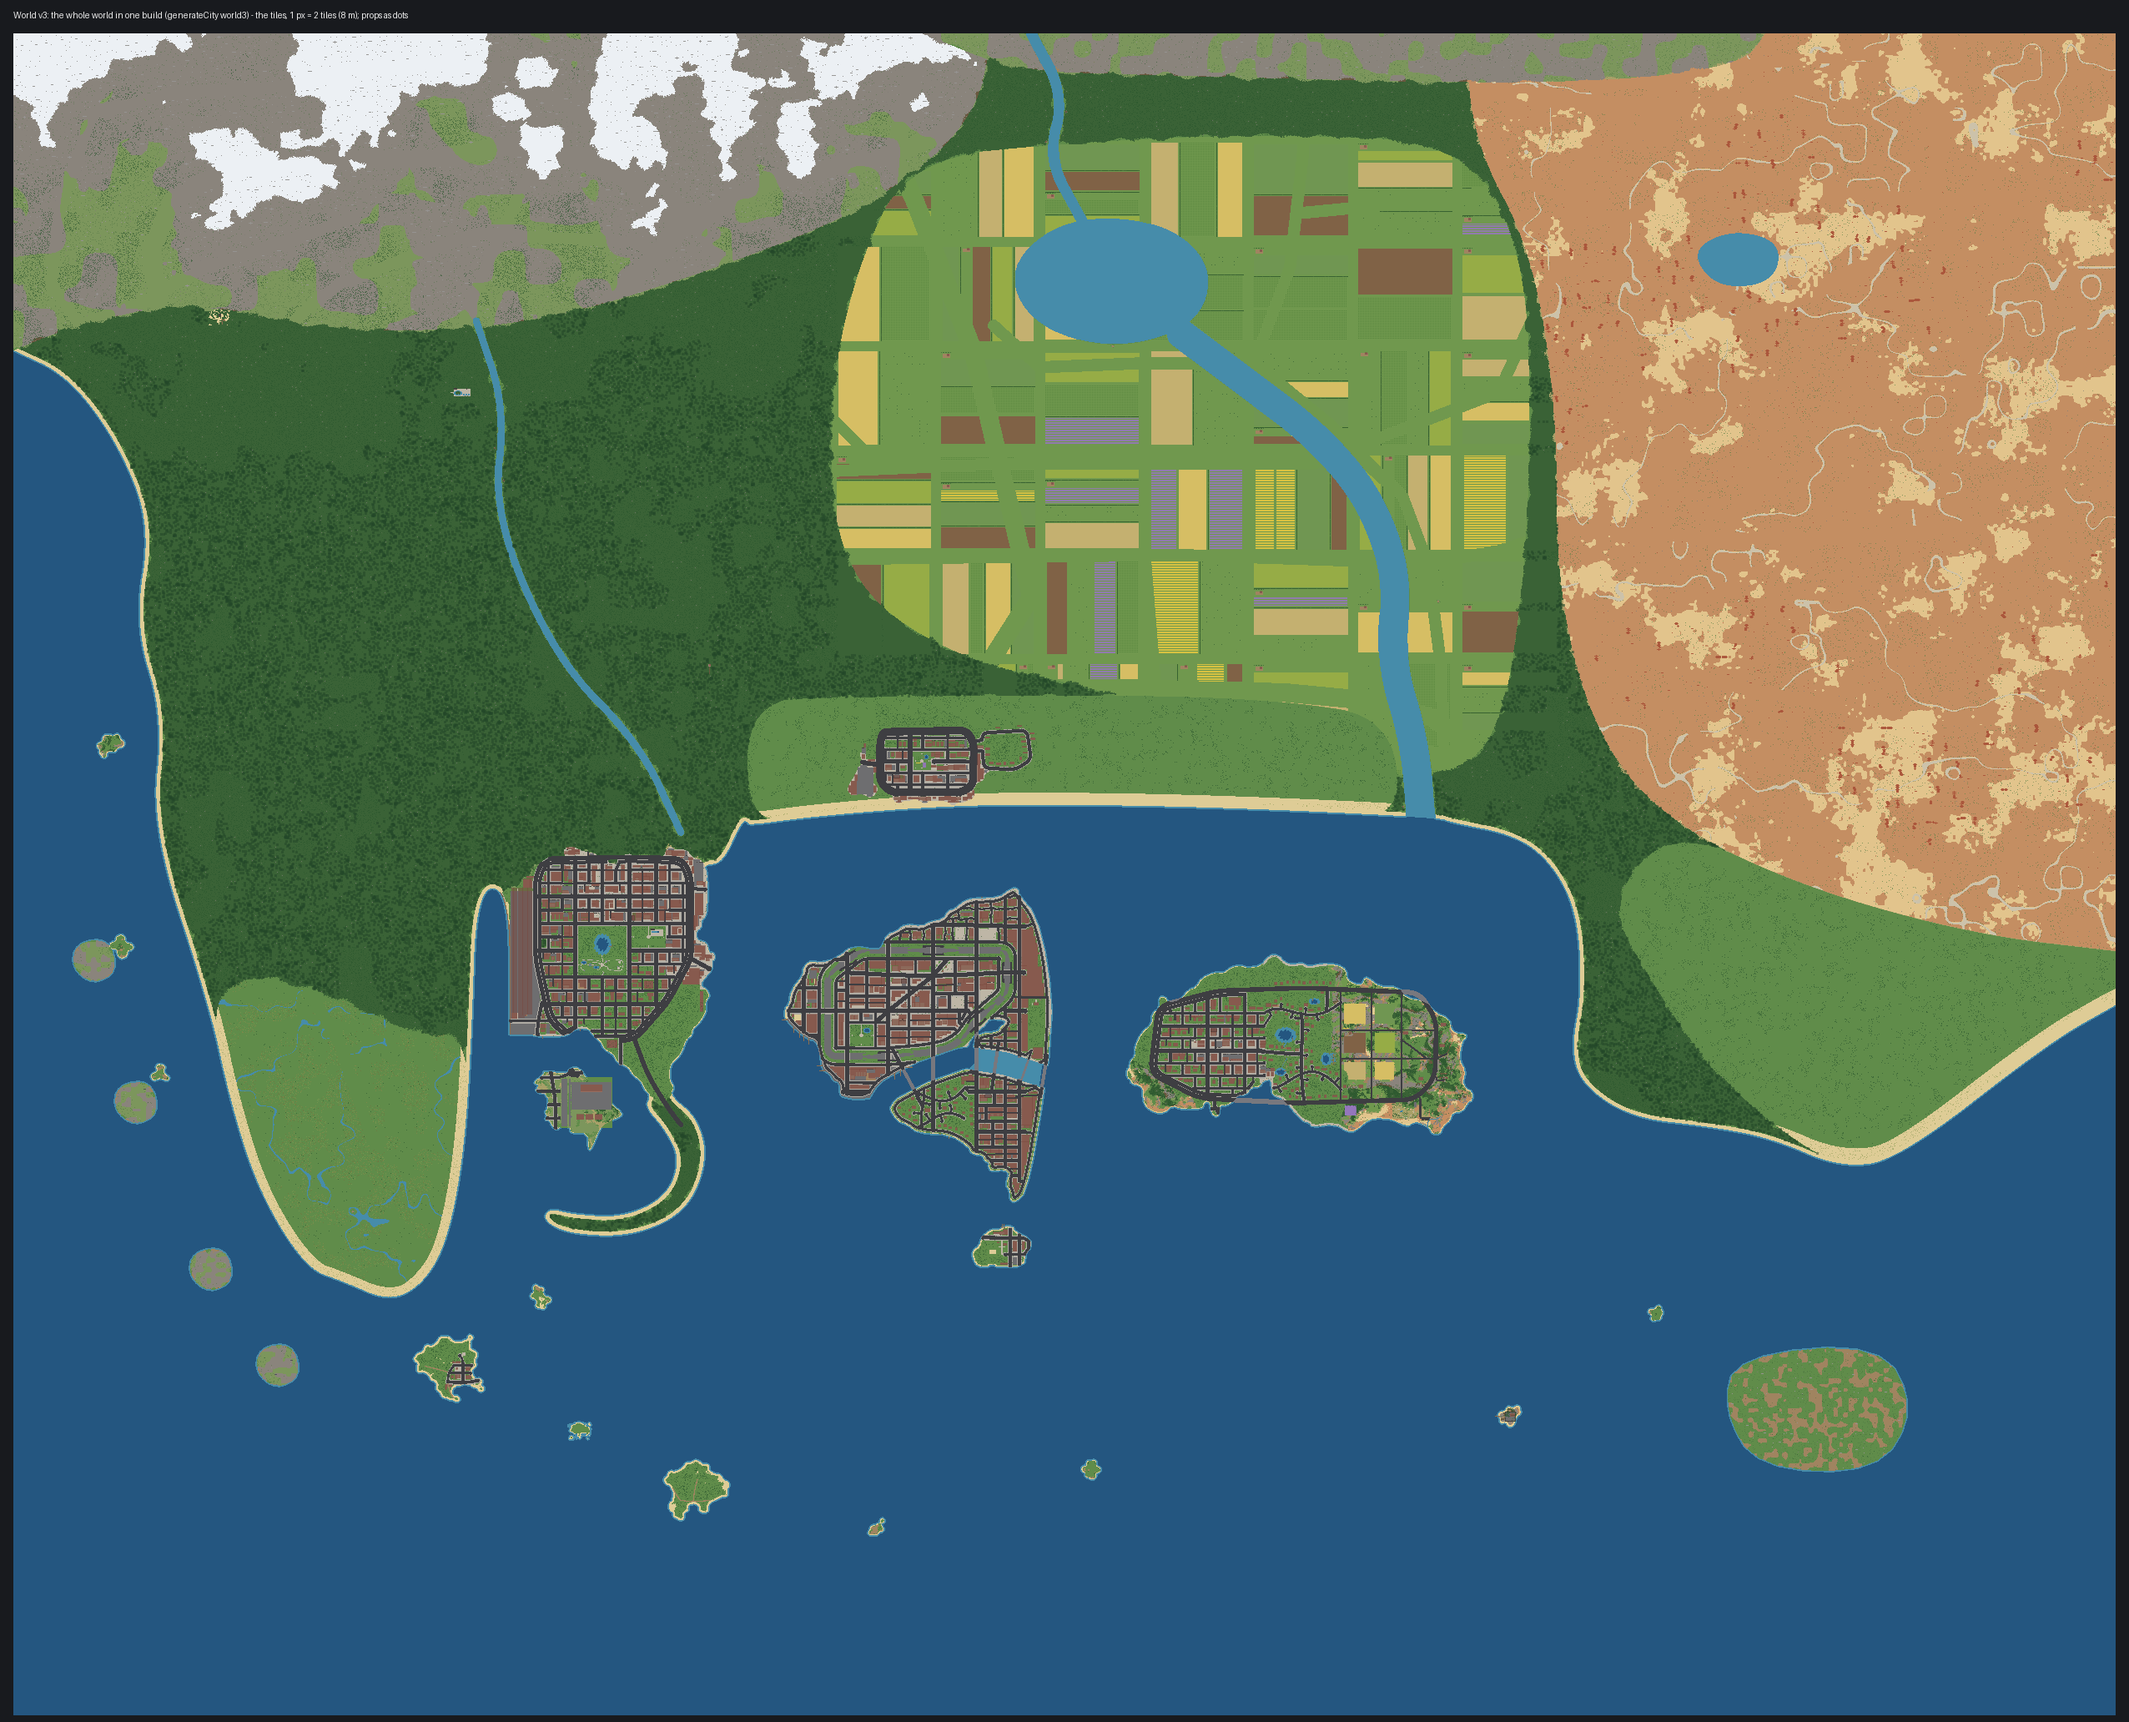
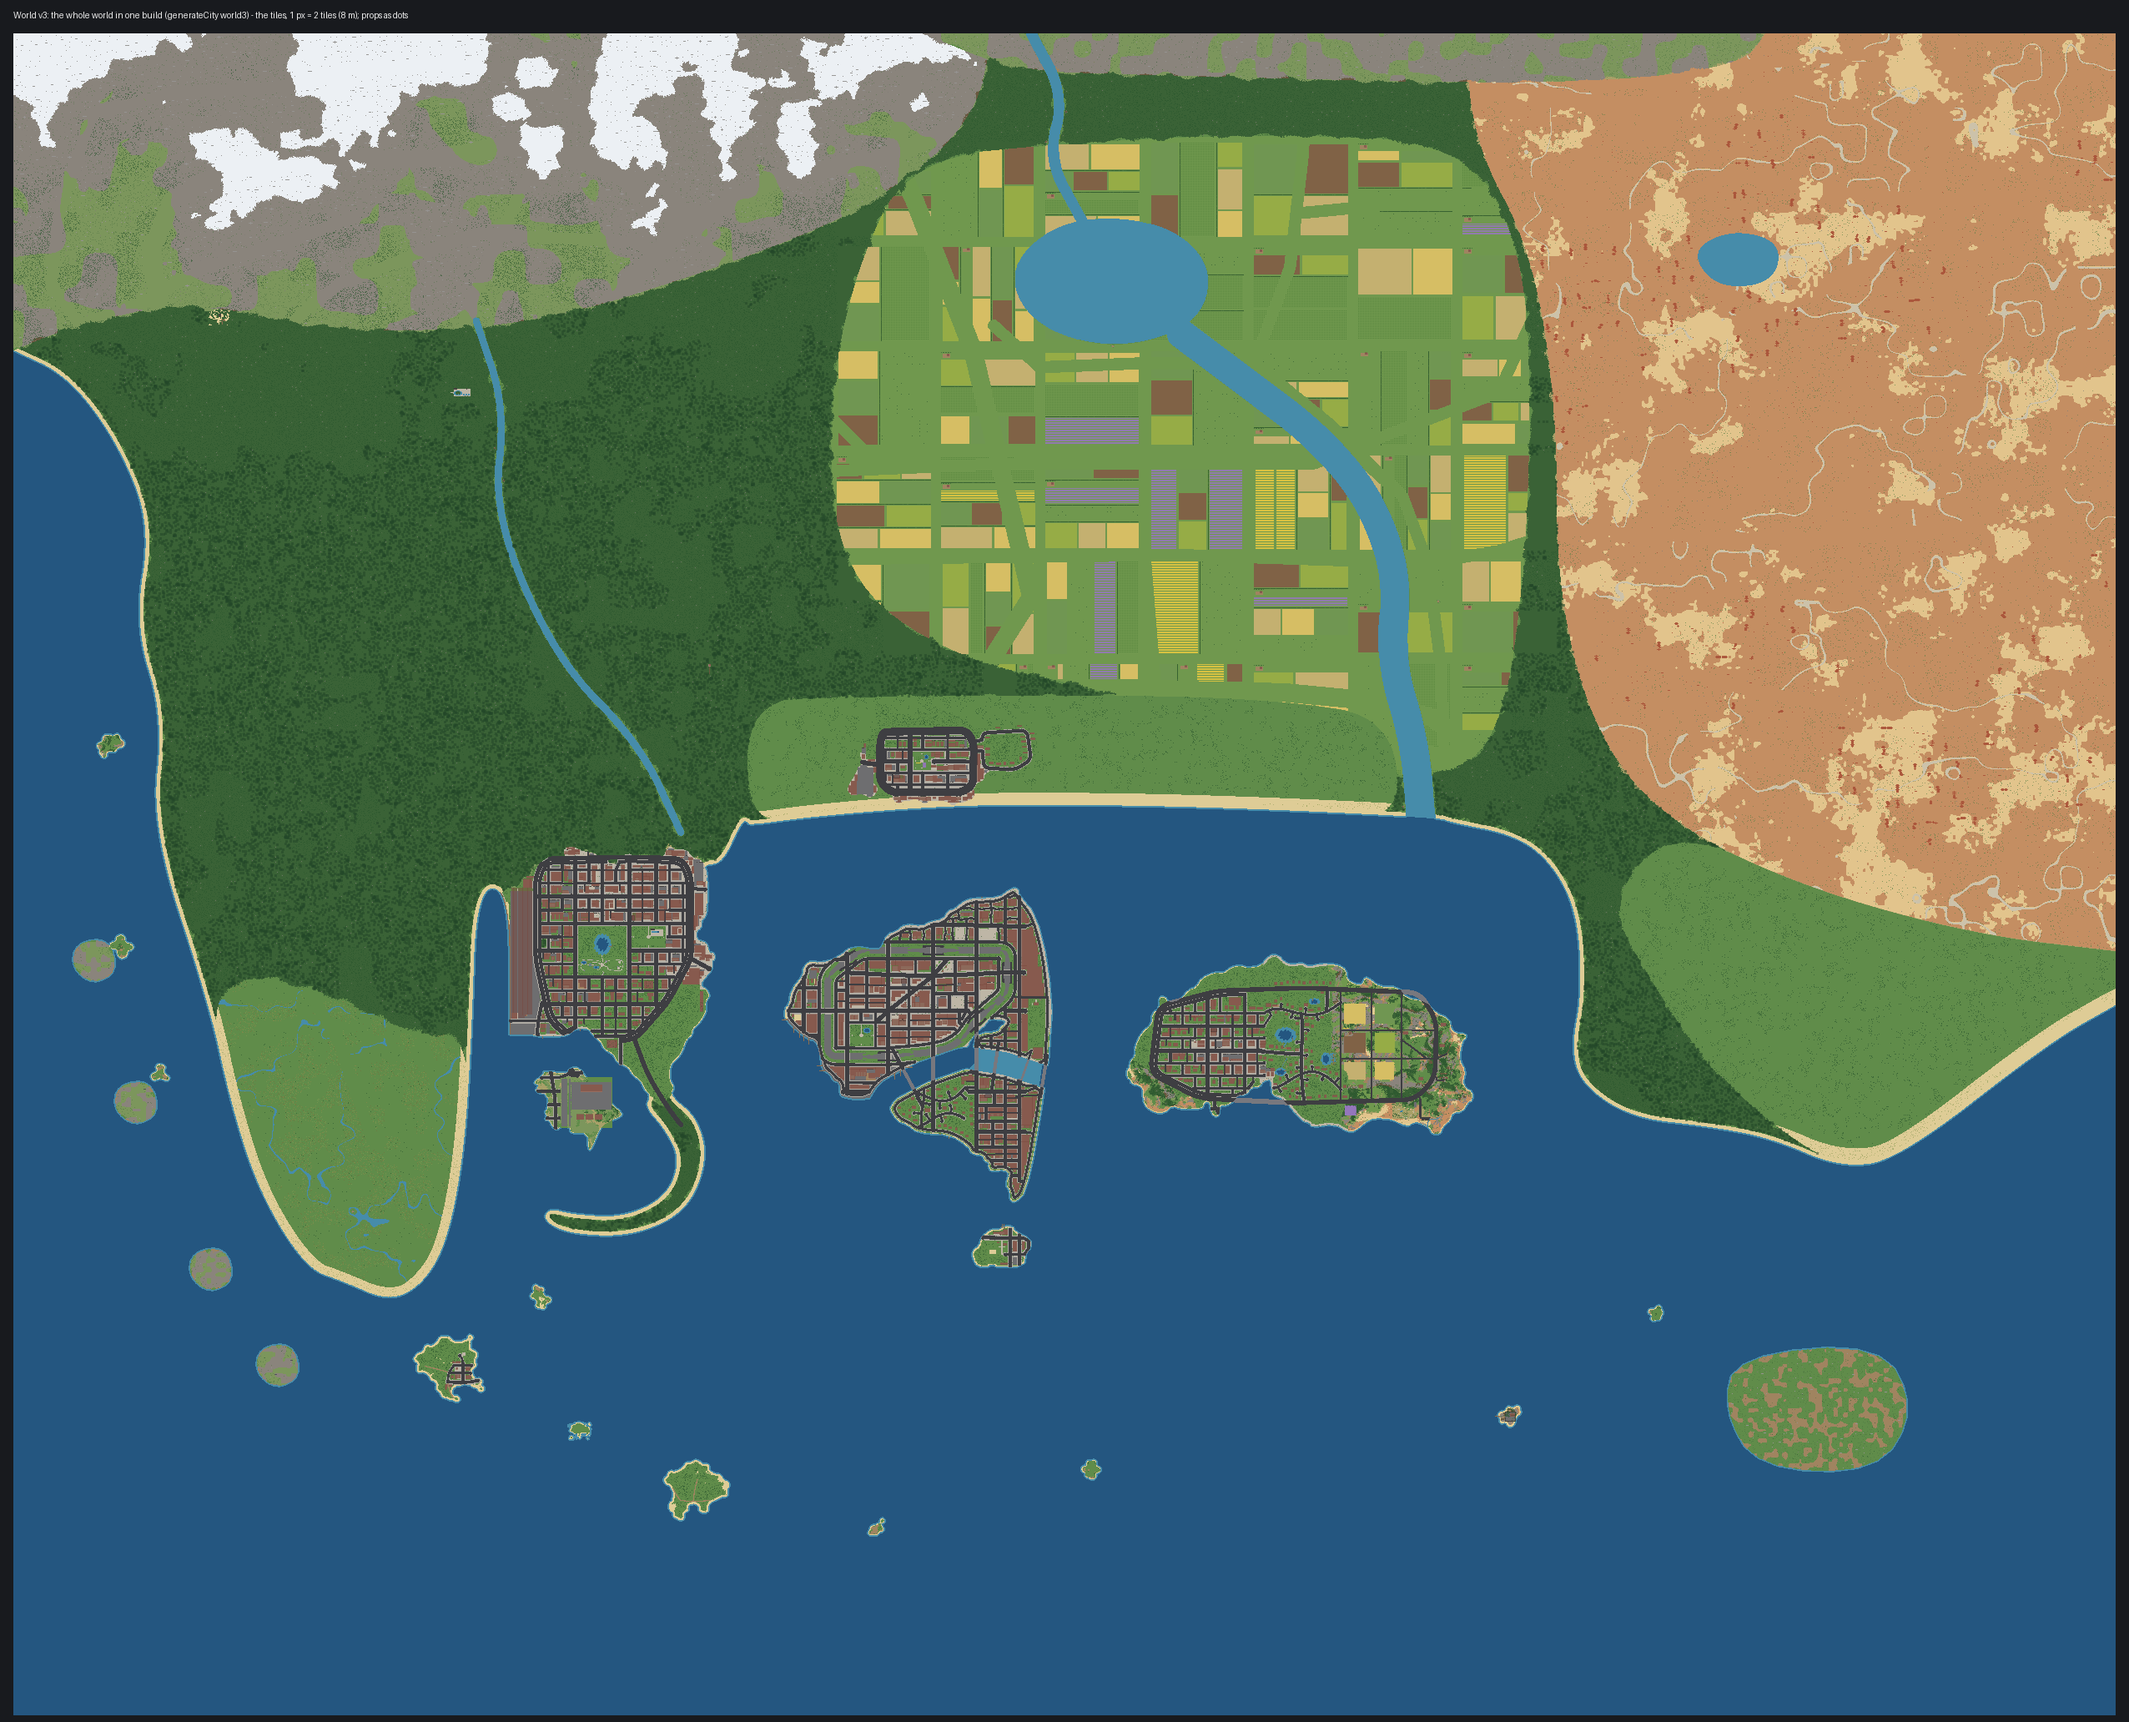
World v3 biomes: Willow Valley's long strips split into fields; nothing grows on the snow (the renderer's cover); the peaks' region baked (docs/world-v3-world-r1-0.png); 8.8 updated
Claude-Session: https://claude.ai/code/session_015TdwbASoLBxZr1VoEZGToX

Changed region(s): [[0.3715, 0.062, 0.7429, 0.4341]]

diff --git a/shared/world3-biomes.js b/shared/world3-biomes.js
@@ -192,9 +192,16 @@ export function dress3(m, L, keep, H) {
       }
       if (r[2] - r[0] < 8 || r[3] - r[1] < 8) continue;
       if (use === 'field') {
-        let cnt = 0;
-        for (let y = r[1]; y < r[3]; y++) for (let x = r[0]; x < r[2]; x++) { const i = y * W + x; if (x >= 0 && y >= 0 && x < W && y < HH && L.dist[i] === D3.VALLEY && okTile(i, T.GRASS, T.DIRT)) { m.tiles[i] = T.FIELD; cnt++; } }
-        if (cnt > 200) { m.fields.push({ x: r[0] * TILE, y: r[1] * TILE, w: (r[2] - r[0]) * TILE, h: (r[3] - r[1]) * TILE }); n.fields++; }
+        // a long strip is two or three fields end to end, a farm track's room between (each its own crop)
+        const long = across ? r[2] - r[0] : r[3] - r[1], parts = long > 140 ? 2 + Math.floor(hash2(sx + j, sy + 5, 5614) * 2) : 1;
+        for (let q = 0; q < parts; q++) {
+          const c0 = Math.round(long * (q / parts + (q ? (hash2(sx + q, sy + j, 5615) - 0.5) * 0.15 : 0))) + (q ? 2 : 0);
+          const c1 = q < parts - 1 ? Math.round(long * ((q + 1) / parts + (hash2(sx + q + 1, sy + j, 5615) - 0.5) * 0.15)) - 2 : long;
+          const f = across ? [r[0] + c0, r[1], r[0] + c1, r[3]] : [r[0], r[1] + c0, r[2], r[1] + c1];
+          let cnt = 0;
+          for (let y = f[1]; y < f[3]; y++) for (let x = f[0]; x < f[2]; x++) { const i = y * W + x; if (x >= 0 && y >= 0 && x < W && y < HH && L.dist[i] === D3.VALLEY && okTile(i, T.GRASS, T.DIRT)) { m.tiles[i] = T.FIELD; cnt++; } }
+          if (cnt > 200) { m.fields.push({ x: f[0] * TILE, y: f[1] * TILE, w: (f[2] - f[0]) * TILE, h: (f[3] - f[1]) * TILE }); n.fields++; }
+        }
       } else if (use === 'orchard' || use === 'lavender' || use === 'sunflowers') {
         const step = use === 'orchard' ? 4 : 3, sp = use === 'orchard' ? (hash2(sx, sy + j, 5607) < 0.7 ? 'apple' : 'orange') : use;
         let cnt = 0;

diff --git a/client/art2/game/statics.js b/client/art2/game/statics.js
@@ -2878,6 +2878,7 @@ function coverAt(c, tx, ty, x, y) {
   }
   if (!WILDS.has(st) || st === 'airport') return null;
   const bio = c.biome(x, y), h = hash(tx, ty, 7101), h2 = vnoise(x, y, 70, 7103) * 0.75 + hash(tx, ty, 7103) * 0.25; // (h2: clumps of one plant)
+  if (bio === 9) return null;   // (World v3's snowfields: nothing grows on them)
   const pa = vnoise(x, y, 170, 7105), pb = vnoise(x, y, 90, 7107);   // patches: big drifts, smaller clumps
   // water's edge: reeds and cattails in clumps along lakes and rivers (not the sea)
   const nearFresh = (M.distRiver && M.distRiver[i] > 0 && M.distRiver[i] <= 8) || (M.lake && (M.lake[M.idx(tx - 1, ty)] || M.lake[M.idx(tx + 1, ty)] || M.lake[M.idx(tx, ty - 1)] || M.lake[M.idx(tx, ty + 1)]));

diff --git a/docs/WORLD-V3.md b/docs/WORLD-V3.md
@@ -2051,11 +2051,12 @@ redwood floor, the redwood habitat).
   paintbrush, alpine daisies, heather; stands of mountain pine, fir, whitebark pine and larch below the tree line (0.56).
   2,200 rocks and 6,500 trees per km².
 - **Willow Valley (49):** each 250-tile section cut into two to four strips with hedgerow room between: crop fields
-  (`T.FIELD` and `m.fields`: the ground bake's wheat, corn, vegetables, hay and ploughed soil by field), apple and
+  (`T.FIELD` and `m.fields`: the ground bake's wheat, corn, vegetables, hay and ploughed soil by field; a long strip is
+  two or three fields end to end with a track's room between), apple and
   orange orchards, lavender and sunflower rows, pastures with shade trees; a farmstead (the `farmstead` prefab:
   farmhouse, barn, silos, paddock) at the road end of three sections in five, with a windbreak behind it; hedgerows
-  (hedges with an oak now and then) along most strip edges. 71 fields (52 in the valley's own land), 22 farmsteads, 19
-  orchards, 4,200 hedges.
+  (hedges with an oak now and then) along most strip edges. 153 fields (124 with their middle in the valley), 22
+  farmsteads, 19 orchards, 4,200 hedges.
 - **The Red Rock Desert (50):** hardpan (desert dirt) with sand sheets and dunes where three noises of different sizes
   add up (19% of it: no band, no repeat - sand at a tile says nothing about the tile 150-600 tiles on, 24% at worst),
   dry washes winding across it (gravel: the renderer's shingle, desert scrub on it, mesquite and palo verde along
@@ -2100,9 +2101,10 @@ Bluffs' slope down to the beach can be designed (a cliff path, gardens), as the 
 by its biome as the game paints it (forest floor, alpine and dry grass, pasture, desert, scree, snow), the fields by
 crop, the props to their size (tree crowns, outcrops in their rock's colour, plants by kind). It reads as the regions
 now. What's wrong in it:
-- **Willow Valley is too regular:** the strips run the full width of their 250-tile sections, so the valley reads as
-  rows of long rectangles; real fields vary more (smaller, split crosswise, the odd field cornered by the river), and
-  the lavender rows read grey from above.
+- **Willow Valley is still a grid:** the sections' strips, split into two or three fields each, read as a patchwork
+  of crops, orchards, lavender and sunflower rows with farmsteads at the road ends, but every field is a rectangle on
+  the 250-tile grid; real fields would bend round the river and the lake, and the room left for the roads reads as
+  wide bands of plain grass until the roads are laid.
 - **Highland Woods is uniform:** the clearings are small at this scale and the pine stands hardly show against the
   redwoods; a few big meadows, burns or a lake would break it.
 - **The snowfields are blobs** of one noise; real snow lies in the north-facing hollows and on the highest ridges.
@@ -2110,3 +2112,10 @@ now. What's wrong in it:
   sand; bigger mesas (raised as Dry Creek's canyon scene paintings are) would carry it.
 - The beach towns (52, 54) and the Egret Coast's marsh are plain at this scale, and Prison Island is a patchwork of
   grass and dirt waiting for its prison.
+
+**In the game's renderer** (`--region 1,0`: the chunk bake of tiles 504-1007 x 0-503, Granite Peaks' summits,
+`docs/world-v3-world-r1-0.png`, 441 chunks in 104 s): the snowfields render white, the scree brown with grey stones
+and granite outcrops, mountain pines and larches in stands below the tree line, the alpine meadows' paler grass. Wrong
+there: **the renderer's ground cover grew meadow plants on the snow** (statics.js `coverAt` fell through to its meadow
+branch for class 9) - fixed after the bake (nothing grows on snow), not re-baked; the snowfields' edges are blobby,
+and the scree reads more brown than grey.
